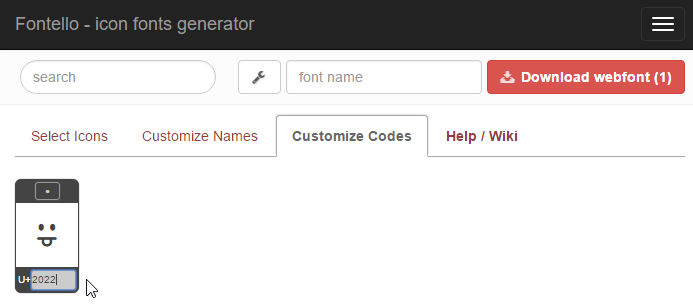
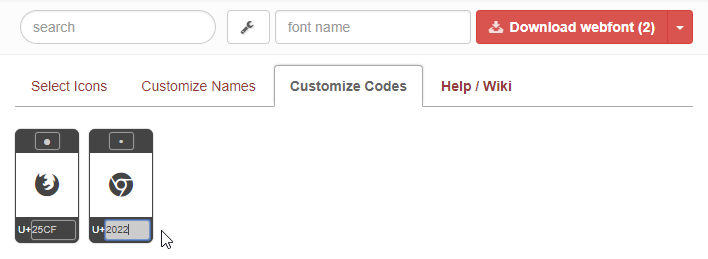
Update to include Firefox & MS Edge

diff --git a/index.html b/index.html
@@ -7,11 +7,12 @@
 	/* Use the css below to change the password input symbol */
 	@font-face {
 		font-family: 'fontello';
-		src: url('./font/fontello.eot?85863353');
-		src: url('./font/fontello.eot?85863353#iefix') format('embedded-opentype'),
-		url('./font/fontello.woff?85863353') format('woff'),
-		url('./font/fontello.ttf?85863353') format('truetype'),
-		url('./font/fontello.svg?85863353#fontello') format('svg');
+		src: url('./font/fontello.eot?13442593');
+		src: url('./font/fontello.eot?13442593#iefix') format('embedded-opentype'),
+		     url('./font/fontello.woff2?13442593') format('woff2'),
+		     url('./font/fontello.woff?13442593') format('woff'),
+		     url('./font/fontello.ttf?13442593') format('truetype'),
+		     url('./font/fontello.svg?13442593#fontello') format('svg');
 		font-weight: normal;
 		font-style: normal;
 	}
@@ -40,7 +41,7 @@
 </head>
 <body>
 	<div class="container header">
-		<h1>Password Input Bullet Replacment <small>(Webkit only)</small></h1>
+		<h1>Password Input Bullet Replacment</h1>
 	</div>
 	<div class="container">
 		<div class="row">

diff --git a/README.md b/README.md
@@ -1,16 +1,17 @@
 # Changing the input password bullet
 
-### This repo provides instructions & a simple demo showing how to replace the input password bullet in Webkit browsers.
+### This repo provides instructions & a simple demo showing how to replace the input password bullet in most browsers.
 
 * Go to [Fontello](http://fontello.com/), or equivalent site.
 * Choose or upload an icon.
 
-    ![fontello-select-glyph](https://cloud.githubusercontent.com/assets/136959/9632072/7b3650c6-514a-11e5-94ca-c41baf55c774.png)
+    ![fontello-select-glyph](images/Fontello-select-glyphs.png)
 
 * Select "Customize Codes" tab.
-* Change the glyph destination to U+"2022" to replace the bullet symbol.
+* Change the glyph destination to U+"2022" to replace the bullet symbol in webkit browsers.
+* Change the glyph destination to U+"25CF" to replace the bullet symbol in Firefox & MS Edge.
 
-    ![fontello-customize-code](https://cloud.githubusercontent.com/assets/136959/9632061/6cab24dc-514a-11e5-89b4-29043b6d781c.png)
+    ![fontello-customize-code](images/Fontello-customize-code.png)
 
 * Download webfont.
 * Include the font files on your site, and include the following css (Note, the `0000` will change depending on the glyph & glyph destination)
@@ -21,9 +22,10 @@
 	font-family: 'fontello';
 	src: url('./font/fontello.eot?0000');
 	src: url('./font/fontello.eot?0000#iefix') format('embedded-opentype'),
-	url('./font/fontello.woff?0000') format('woff'),
-	url('./font/fontello.ttf?0000') format('truetype'),
-	url('./font/fontello.svg?0000#fontello') format('svg');
+	     url('./font/fontello.woff2?0000') format('woff2'),
+	     url('./font/fontello.woff?0000') format('woff'),
+	     url('./font/fontello.ttf?0000') format('truetype'),
+	     url('./font/fontello.svg?0000#fontello') format('svg');
 	font-weight: normal;
 	font-style: normal;
 }
@@ -49,6 +51,7 @@ input[type="password"] {
 }
 ```
 
-* [Check out the demo](http://mottie.github.io/input-password-bullet/) (reminder, this method only works in Webkit browsers)
+* [Check out the demo](https://mottie.github.io/input-password-bullet/)
 
-    ![password-input-typing](https://cloud.githubusercontent.com/assets/136959/9646930/d1b4e70c-519d-11e5-811a-57fea2b6519c.gif)
+    ![password-typing-chrome](images/password-typing-chrome.gif)
+    ![password-typing-firefox](images/password-typing-firefox.gif)
